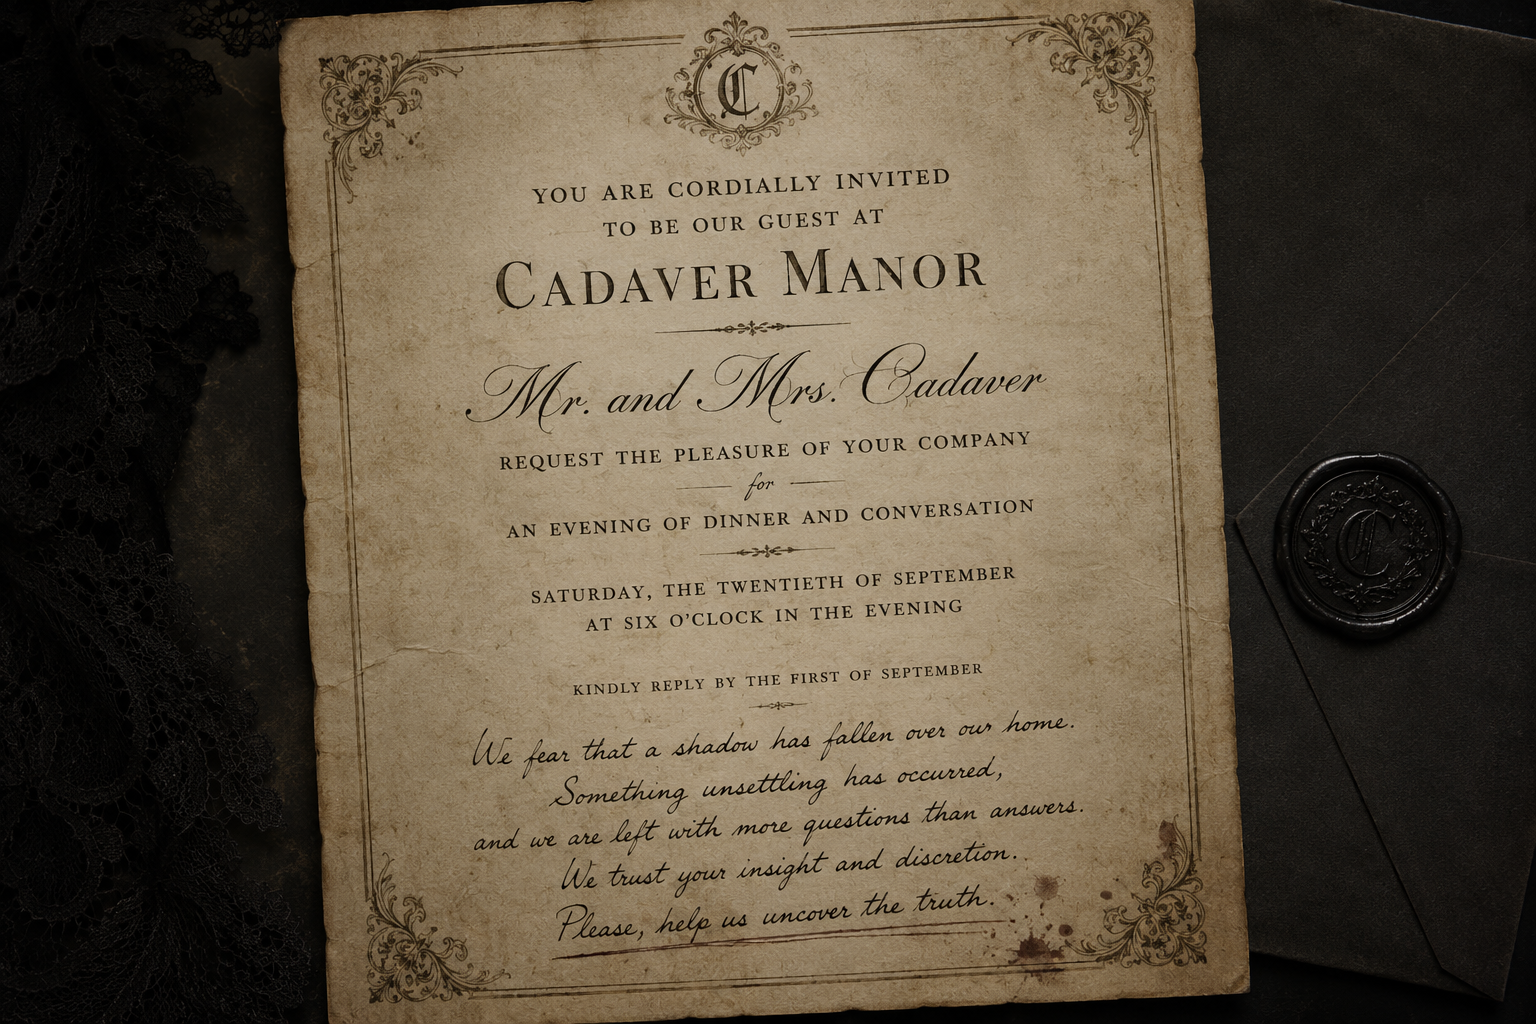
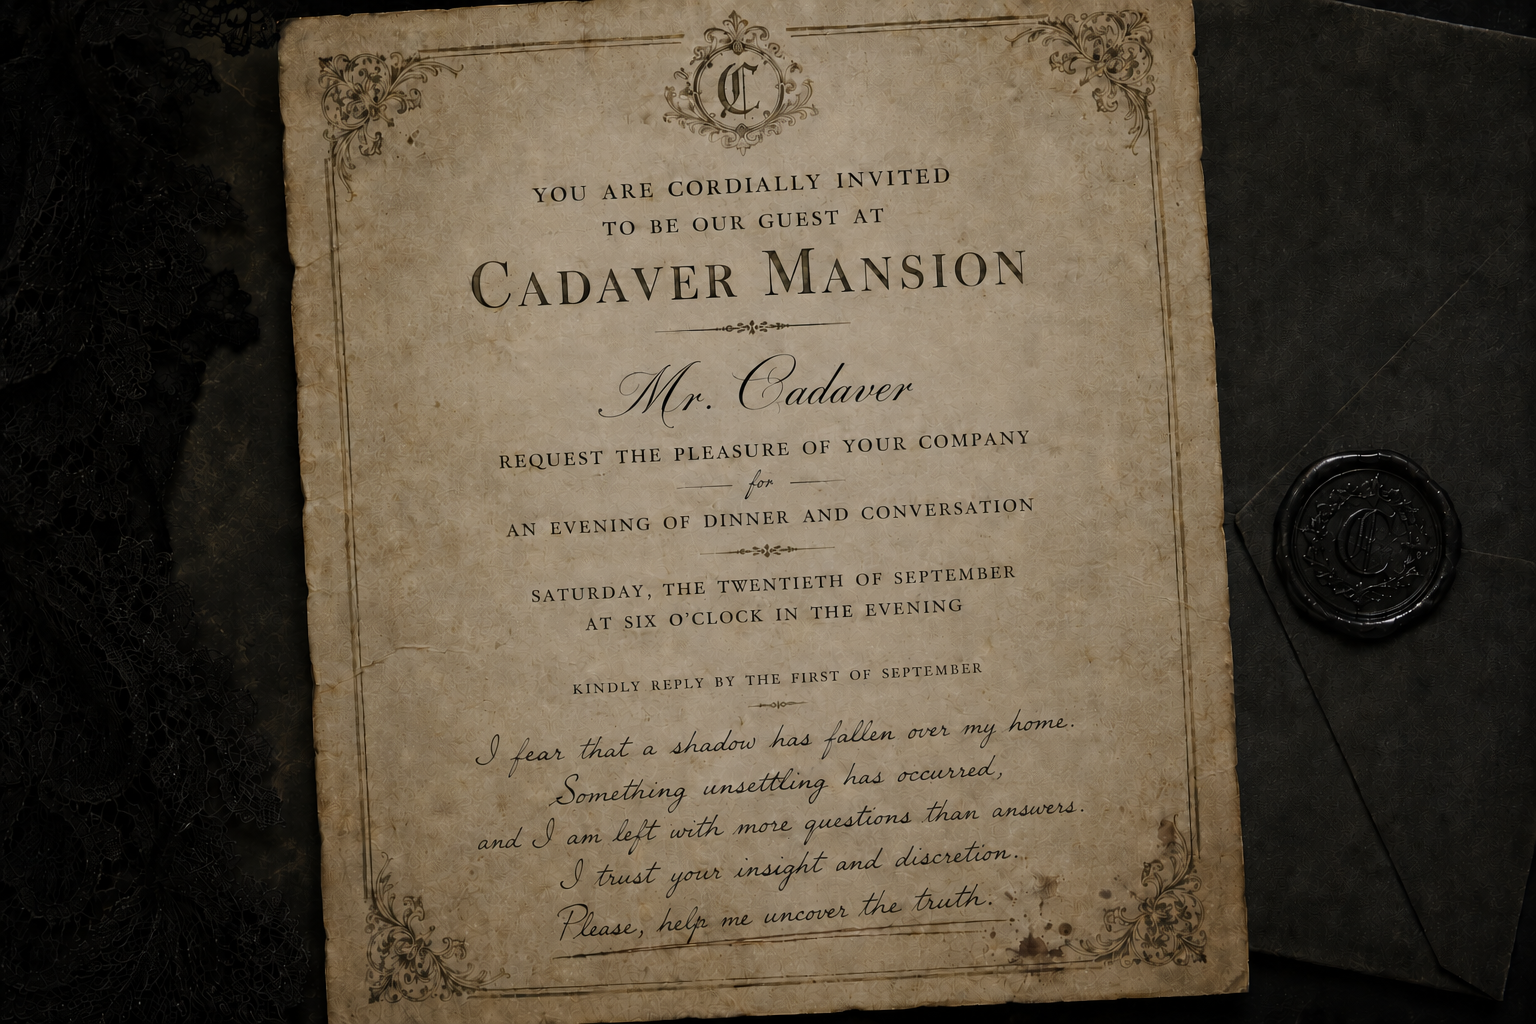
updating

diff --git a/bar.html b/bar.html
@@ -24,7 +24,7 @@
     <div class="eyebrow">The parlor Bar</div>
     <h1>What's Your Poison?</h1>
     <p style="color: var(--text-dim); margin-bottom: 1.5rem;">
-      Before — or after — your evening with Mr. and Mrs. Cadaver, stop by the parlor for a drink.
+      Before — or after — your evening with Mr. Cadaver, stop by the parlor for a drink.
       Available to guests on the night of the tour.
     </p>
 

diff --git a/index.html b/index.html
@@ -29,7 +29,7 @@
       <p class="subtitle subtitle-storm">Some houses remember everything.</p>
       <p class="subtitle subtitle-clear">All mystery, no gore.</p>
     </div>
-    <a class="btn-enter" href="tickets.html">Visit Mr. and Mrs. Cadaver's Mansion</a>
+    <a class="btn-enter" href="tickets.html">Visit Mr. Cadaver's Mansion</a>
   </div>
 </section>
 
